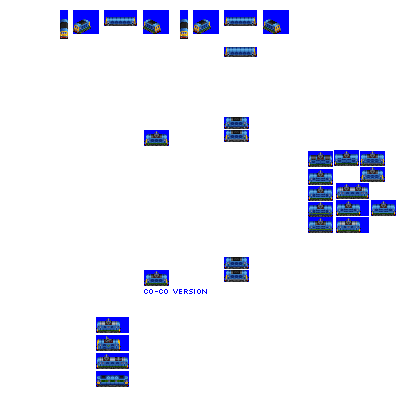
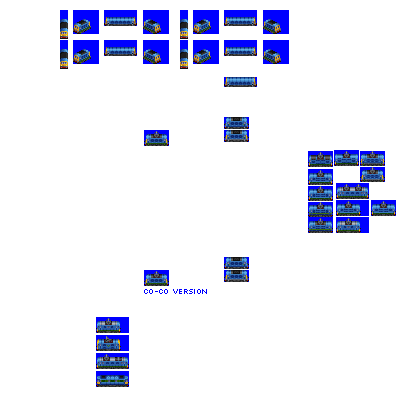
Change: WIP on metro trains

Changed region(s): [[0.45, 0.09, 0.72, 0.18], [0.15, 0.09, 0.42, 0.18], [0.54, 0.18, 0.66, 0.24]]

diff --git a/src/vehicles/pony/debden.py b/src/vehicles/pony/debden.py
@@ -18,7 +18,7 @@ def main(roster_id, **kwargs):
         fixed_run_cost_points=120,  # substantial cost bonus for balance against same-era steam engines
         extended_vehicle_life=True,
         # note that livery names are metadata only and can repeat for different spriterows
-        additional_liveries=["BANGER_BLUE"],
+        additional_liveries=["BANGER_BLUE", "INDUSTRIAL_YELLOW"],
         sprites_complete=False,
     )
 

diff --git a/src/vehicles/pony/cringle.py b/src/vehicles/pony/cringle.py
@@ -18,7 +18,7 @@ def main(roster_id, **kwargs):
         fixed_run_cost_points=120,  # substantial cost bonus for balance against same-era steam engines
         extended_vehicle_life=True,
         # note that livery names are metadata only and can repeat for different spriterows
-        additional_liveries=["BANGER_BLUE"],
+        additional_liveries=["INDUSTRIAL_YELLOW"],
         sprites_complete=False,
     )
 

diff --git a/src/vehicles/pony/mulberry.py b/src/vehicles/pony/mulberry.py
@@ -18,7 +18,7 @@ def main(roster_id, **kwargs):
         fixed_run_cost_points=120,  # substantial cost bonus for balance against same-era steam engines
         extended_vehicle_life=True,
         # note that livery names are metadata only and can repeat for different spriterows
-        additional_liveries=["BANGER_BLUE"],
+        additional_liveries=["INDUSTRIAL_YELLOW"],
         sprites_complete=False,
     )
 
